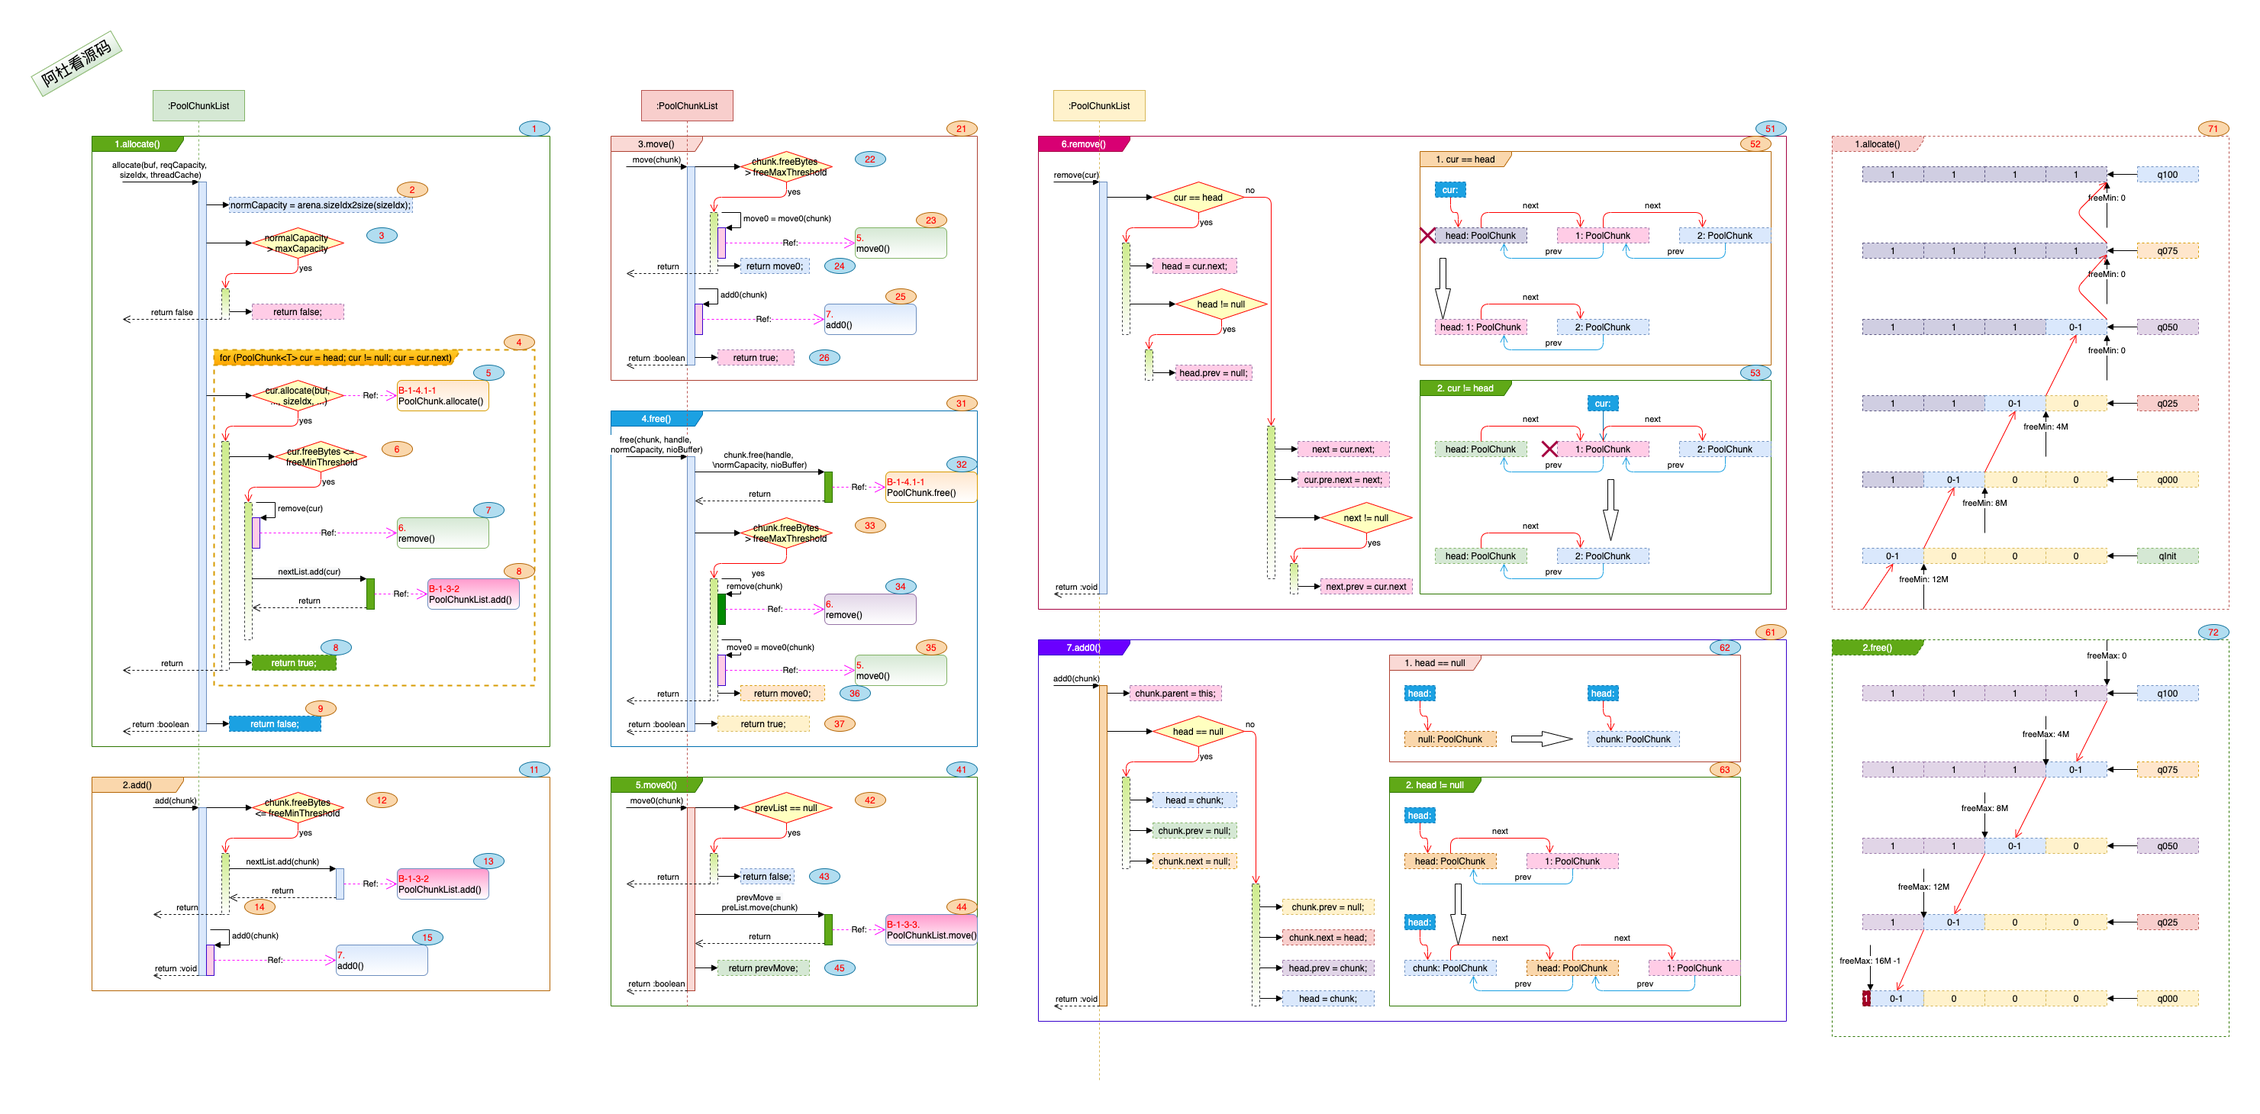
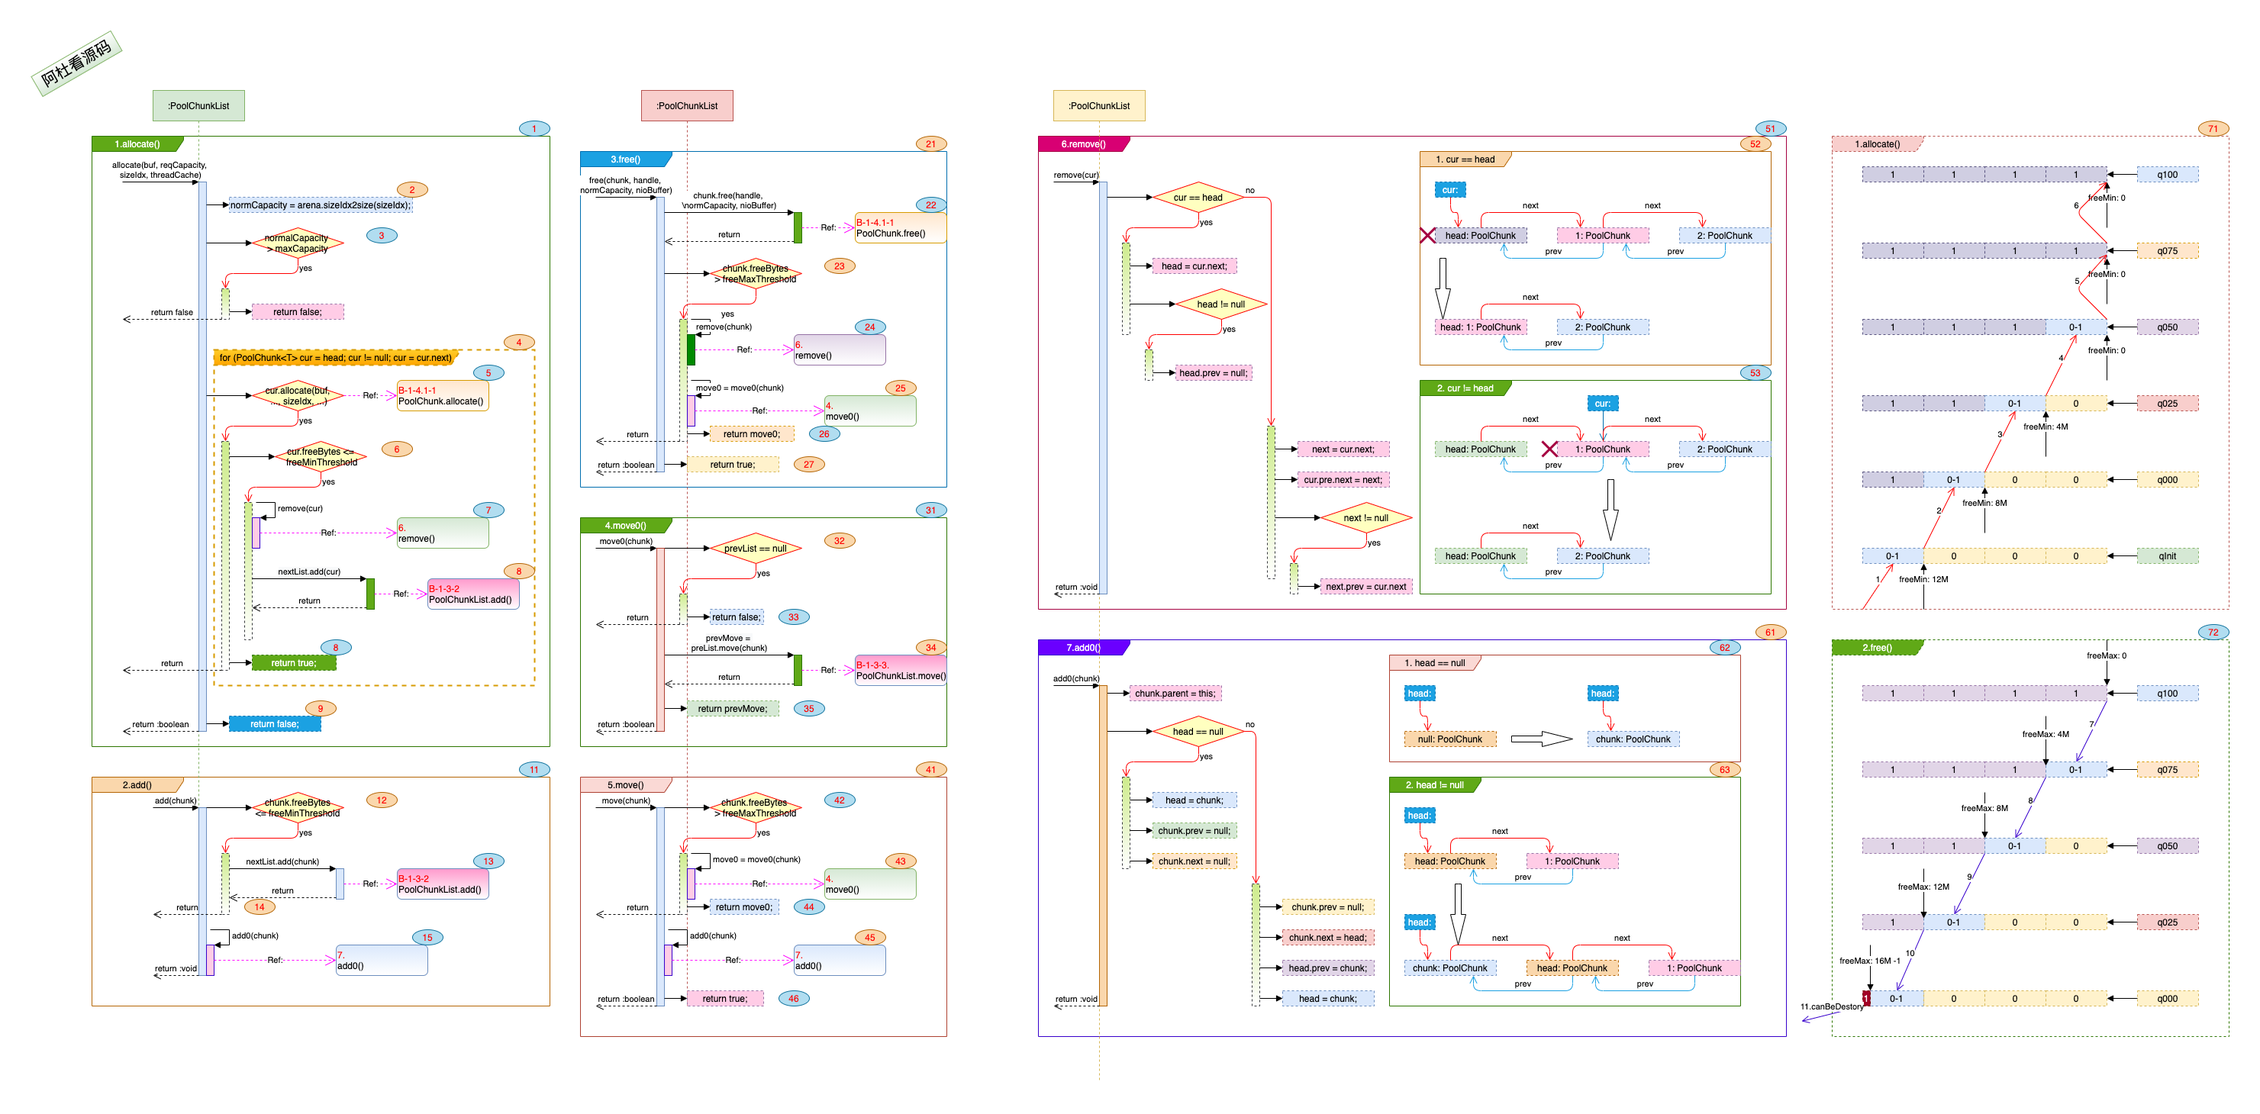
1. PoolChunkList大体完工.

Changed region(s): [[0.2486, 0.0925, 0.435, 0.9247], [0.4039, 0.6781, 0.435, 0.7089]]

diff --git a/netty_4.1.63/4.PoolChunkList.html b/netty_4.1.63/4.PoolChunkList.html
@@ -633,6 +633,6 @@ img {
 </style><title>4.PoolChunkList</title>
 </head>
 <body class='typora-export'><div class='typora-export-content'>
-<div id='write'  class=''><h2 id='nettypooledbytebuf4poolchunklist'><span>Netty_PooledByteBuf_4.PoolChunkList</span></h2><h3 id='一-干什么'><span>一. 干什么?</span></h3><ol start='' ><li><span>按楼层下的空置率来进行分级管理, 大远看去一幢楼, 最空旷的楼层在最下面, 最拥挤的楼层在最上面.  </span></li><li><span>楼层所属的分级是变化的, 空置率变化后, 会在不同的分级间游走. 没血了就回家, 有血了就往上冲.</span></li></ol><p>&nbsp;</p><h3 id='二-打算怎么干'><span>二. 打算怎么干? </span></h3><ol start='' ><li><p><span>通过定义不同的空置率级别(min, max), 将整个楼分成不同的级别, 第个级别(PoolChunkList)下的空置率都在(min, max)范围内.</span></p></li><li><p><span>随着楼层中空间的分配与回收, 空置率发生变化, 判断是否在不同级别(PoolChunkList)间是升还是降.</span></p><p>&nbsp;</p></li></ol><h3 id='三-具体实现'><span>三. 具体实现:</span></h3><ol start='' ><li><h4 id='先看下初始化方法与数据结构'><span>先看下初始化方法与数据结构:</span></h4><blockquote><p><img src="/Users/dm/Documents/finup_codes/github/Reading-Netty-SourceCode/netty_4.1.63/images/3.PooledByteBufAllocator/2.DataStructure-5.PoolChunkList.png" referrerpolicy="no-referrer" alt="PoolChunkList初始化及数据结构"></p><ul><li><span>图中标号: </span><strong><span>1</span></strong><span>. 属于那幢楼(arena).</span></li><li><span>图中标号: </span><strong><span>2</span></strong><span>. 最高的那一级(nextList)是什么?</span></li><li><span>图中标号: </span><strong><span>1</span></strong><span>. </span></li><li><span>图中标号: </span><strong><span>1</span></strong><span>. </span></li><li><span>图中标号: </span><strong><span>1</span></strong><span>. </span></li><li><span>图中标号: </span><strong><span>1</span></strong><span>. </span></li><li><span>图中标号: </span><strong><span>1</span></strong><span>. </span></li><li><span>图中标号: </span><strong><span>1</span></strong><span>. </span></li><li><span>图中标号: </span><strong><span>1</span></strong><span>. </span></li><li><span>图中标号: </span><strong><span>1</span></strong><span>. </span></li></ul></blockquote><p>&nbsp;</p></li></ol></div></div>
+<div id='write'  class=''><h2 id='nettypooledbytebuf4poolchunklist'><span>Netty_PooledByteBuf_4.PoolChunkList</span></h2><h3 id='一-干什么'><span>一. 干什么?</span></h3><ol start='' ><li><span>按楼层下的空置率来进行分级管理, 大远看去一幢楼, 最空旷的楼层在最下面, 最拥挤的楼层在最上面.  </span></li><li><span>楼层所属的分级是变化的, 空置率变化后, 会在不同的分级间游走. 没血了就回家, 有血了就往上冲.</span></li></ol><p>&nbsp;</p><h3 id='二-打算怎么干'><span>二. 打算怎么干? </span></h3><ol start='' ><li><p><span>通过定义不同的空置率级别(min, max), 将整个楼分成不同的级别, 第个级别(PoolChunkList)下的空置率都在(min, max)范围内.</span></p></li><li><p><span>随着楼层中空间的分配与回收, 空置率发生变化, 判断是否在不同级别(PoolChunkList)间是升还是降.</span></p><p>&nbsp;</p></li></ol><h3 id='三-具体实现'><span>三. 具体实现:</span></h3><ol start='' ><li><h4 id='先看下初始化方法与数据结构'><span>先看下初始化方法与数据结构:</span></h4><blockquote><p><img src="./images/3.PooledByteBufAllocator/2.DataStructure-5.PoolChunkList.png" referrerpolicy="no-referrer" alt="PoolChunkList初始化及数据结构"></p><ul><li><p><span>图中标号: </span><strong><span>1</span></strong><span>. 属于那幢楼(arena).</span></p></li><li><p><span>图中标号: </span><strong><span>2</span></strong><span>. 最高的那一级(nextList)是什么?</span></p></li><li><p><span>图中标号: </span><strong><span>3, 4</span></strong><span>. 闲置率的边界的百分比(minUsage, maxUsage). </span></p></li><li><p><span>图中标号: </span><strong><span>5</span></strong><span>. 该分级下最大能满足的空间分配是多少(maxCapacity). 闲置率边界是用来进行分级管理的, maxCapacity表示的是可分配空间, 有可能分配完了, 会进行跳级.</span></p></li><li><p><span>图中标号: </span><strong><span>6, 7</span></strong><span>. 计算闲置的边界字节数.</span></p></li><li><p><span>图中标号: </span><strong><span>11</span></strong><span>. 一幢楼的分级管理(PoolArena), 从qInit到q100分了6级来管理. 1-5表示随着分配, 楼层的空置率的变化及在不同的分级(PoolChunkList)内上升, 6-9表示随着空间的释放, 空置率越来越高, 在不同的分级中的下降. </span></p><p><strong><span>这里要注意:</span></strong><span> 10.free, 因为q000的prev是空的, 所以如果楼层如果空置超过q000的freeMaxThreshold, 16777215----15.9M, 也就是16M空间都是空置时, 该楼层不会下降到qInit, 而是直接从管理分级中移除了. </span></p><figure><table><thead><tr><th style='text-align:center;' ><span>分级</span></th><th style='text-align:center;' ><span>minUsage</span></th><th style='text-align:center;' ><span>maxUsage</span></th><th style='text-align:center;' ><span>freeMinThreshold</span></th><th style='text-align:center;' ><span>freeMaxThreshold</span></th><th style='text-align:center;' ><span>maxCapacity</span></th></tr></thead><tbody><tr><td style='text-align:center;' ><span>qInit</span></td><td style='text-align:center;' ><span>-2147483648</span></td><td style='text-align:center;' ><span>25</span></td><td style='text-align:center;' ><span>12750684----12.1M</span></td><td style='text-align:center;' ><span>2147483647----2048M</span></td><td style='text-align:center;' ><span>16609443----15.8M</span></td></tr><tr><td style='text-align:center;' ><span>q000</span></td><td style='text-align:center;' ><span>1</span></td><td style='text-align:center;' ><span>50</span></td><td style='text-align:center;' ><span>8556380----8.15M</span></td><td style='text-align:center;' ><span>16777215----15.9M</span></td><td style='text-align:center;' ><span>16609443----15.8M</span></td></tr><tr><td style='text-align:center;' ><span>q025</span></td><td style='text-align:center;' ><span>25</span></td><td style='text-align:center;' ><span>75</span></td><td style='text-align:center;' ><span>4362076----4.15M</span></td><td style='text-align:center;' ><span>12750684----12.1M</span></td><td style='text-align:center;' ><span>12582912----12M</span></td></tr><tr><td style='text-align:center;' ><span>q050</span></td><td style='text-align:center;' ><span>50</span></td><td style='text-align:center;' ><span>100</span></td><td style='text-align:center;' ><span>0</span></td><td style='text-align:center;' ><span>8556380----8.15M</span></td><td style='text-align:center;' ><span>8388608----8M</span></td></tr><tr><td style='text-align:center;' ><span>q075</span></td><td style='text-align:center;' ><span>75</span></td><td style='text-align:center;' ><span>100</span></td><td style='text-align:center;' ><span>0</span></td><td style='text-align:center;' ><span>4362076----4.15M</span></td><td style='text-align:center;' ><span>4194304----4M</span></td></tr><tr><td style='text-align:center;' ><span>q100</span></td><td style='text-align:center;' ><span>100</span></td><td style='text-align:center;' ><span>2147483647</span></td><td style='text-align:center;' ><span>-2147483648----2048M</span></td><td style='text-align:center;' ><span>0</span></td><td style='text-align:center;' ><span>0</span></td></tr></tbody></table></figure></li></ul></blockquote></li><li><h4 id='空间的分配与释放'><span>空间的分配与释放:</span></h4><blockquote><p><span>上图: </span><img src="./images/3.PooledByteBufAllocator/1.MainFlow-3.PoolChunkList.png" referrerpolicy="no-referrer" alt="PoolChunkList allocate&amp;free"></p><ol><li><p><span>图中标号: </span><strong><span>1</span></strong><span>, allocate(): 从该ChunkList下的楼层分配空间, 该List下的楼层空置率都在一个范围内, 以链表的结构连接在一起.</span></p><ul><li><p><span>图中标号: </span><strong><span>2</span></strong><span>, 根据sizeIdx取空间需求的标准化值.</span></p></li><li><p><span>图中标号: </span><strong><span>3</span></strong><span>, 如果要申请的空间大于该PoolChunkList的最大可分配空间, 那么直接返回分配不了.</span></p></li><li><p><span>图中标号: </span><strong><span>4</span></strong><span>, 扫楼操作: 遍历该List下的所有楼层, 有楼层能分配就直接退出遍历, 返回结果(图中标号: </span><strong><span>8</span></strong><span> ). 如果所有的楼层都不能满足空间需求, 返回分配失败(图中标号: </span><strong><span>9</span></strong><span>).</span></p></li><li><p><span>图中标号: </span><strong><span>5</span></strong><span>, 特定楼层(PoolChunk)进行空间分配. 如果分配成功, 检测下该楼层(cur: PoolChunk)还有多少闲置空间(freeBytes), 如果闲置空间少于该分级下的空间率下限(freeMinThreshold), 先把该楼层从本身的列表中移走(图中标号: </span><strong><span>7</span></strong><span>), 再把该楼层转给下一级PoolChunkList(nextList.add(cur), 图中标号: </span><strong><span>8</span></strong><span>. </span></p><p>&nbsp;</p></li></ul></li><li><p><span>图中标号: </span><strong><span>11</span></strong><span>, add(): 尝试将楼层加入到当前有PoolChunkList中.</span></p><ul><li><p><span>图中标号: </span><strong><span>12</span></strong><span>, 如果要加入的楼层的空置空间(chunk.freeBytes)小于最小边界(freeMinThreshold), 则往空置率更小的分级推(图中标号: </span><strong><span>13</span></strong><span>), 然后直接返回(图中标号: </span><strong><span>14</span></strong><span>).</span></p></li><li><p><span>图中标号: </span><strong><span>15</span></strong><span>, 如果空置率在范围内, 则将楼层加入到该PoolChunkList管理的楼层列表中(图中标号: </span><strong><span>15</span></strong><span>).</span></p><p>&nbsp;</p></li></ul></li><li><p><span>图中标号: </span><strong><span>21</span></strong><span>, free(): 该分级下的楼层进行空间回收, 这里所做的空间回收只是对空间是否使用进行标记, 标记的更改肯定会被执行, free()返回false时, 表示该楼层可以被destroy, 楼层对应的内存可以销毁.</span></p><ul><li><span>图中标号: </span><strong><span>22</span></strong><span>, 先对楼层进行空间释放, 如果释放完空间后, 闲置的空间大于该分级下的最大值上限(freeMaxThreshold)(图中标号: </span><strong><span>23</span></strong><span>), 说明该楼层有更大的富余空间, 应该将该楼层进行下移(相对于结构图来说), 那么先将该楼层从该分级(PoolChunkList)的列表中移除(图中标号: </span><strong><span>24</span></strong><span>), 再将该楼层进行下移(图中标号: </span><strong><span>25</span></strong><span>, move0()), 返回是否下移成功了(图中标号: </span><strong><span>26</span></strong><span>), 如果下移不成功, 表明没人要这个楼层了, 这个楼层是全空的, 那这个楼层可以销毁了.</span></li><li><span>图中标号: </span><strong><span>27</span></strong><span>, 如果楼层释放资源成功了, 也不用对楼层进行下移操作, 则返回true.</span></li></ul></li><li><p><span>图中标号: </span><strong><span>1</span></strong></p></li><li><p><span>图中标号: </span><strong><span>1</span></strong></p></li><li><p><span>图中标号: </span><strong><span>1</span></strong></p></li><li><p><span>图中标号: </span><strong><span>1</span></strong></p></li><li><p><span>图中标号: </span><strong><span>1</span></strong></p></li><li><p>&nbsp;</p></li></ol></blockquote></li></ol></div></div>
 </body>
 </html>

diff --git a/netty_4.1.63/4.PoolChunkList.md b/netty_4.1.63/4.PoolChunkList.md
@@ -20,7 +20,7 @@
 
 1. #### 先看下初始化方法与数据结构:
 
-   > ![PoolChunkList初始化及数据结构](/Users/dm/Documents/finup_codes/github/Reading-Netty-SourceCode/netty_4.1.63/images/3.PooledByteBufAllocator/2.DataStructure-5.PoolChunkList.png)
+   > ![PoolChunkList初始化及数据结构](./images/3.PooledByteBufAllocator/2.DataStructure-5.PoolChunkList.png)
    >
    > - 图中标号: **1**. 属于那幢楼(arena).
    >
@@ -45,4 +45,77 @@
    >   | q075  |     75      |    100     |          0           |  4362076----4.15M   |   4194304----4M   |
    >   | q100  |     100     | 2147483647 | -2147483648----2048M |          0          |         0         |
    
-2. 
+2. #### 空间的分配与释放:
+
+   > 上图: ![PoolChunkList allocate&free](./images/3.PooledByteBufAllocator/1.MainFlow-3.PoolChunkList.png)
+   >
+   > 1. 图中标号: **1**, allocate(): 从该ChunkList下的楼层分配空间, 该List下的楼层空置率都在一个范围内, 以链表的结构连接在一起.
+   >
+   >    - 图中标号: **2**, 根据sizeIdx取空间需求的标准化值.
+   >
+   >    - 图中标号: **3**, 如果要申请的空间大于该PoolChunkList的最大可分配空间, 那么直接返回分配不了.
+   >
+   >    - 图中标号: **4**, 扫楼操作: 遍历该List下的所有楼层, 有楼层能分配就直接退出遍历, 返回结果(图中标号: **8** ). 如果所有的楼层都不能满足空间需求, 返回分配失败(图中标号: **9**).
+   >
+   >    - 图中标号: **5**, 特定楼层(PoolChunk)进行空间分配. 如果分配成功, 检测下该楼层(cur: PoolChunk)还有多少闲置空间(freeBytes), 如果闲置空间少于该分级下的空间率下限(freeMinThreshold), 先把该楼层从本身的列表中移走(图中标号: **7**), 再把该楼层转给下一级PoolChunkList(nextList.add(cur), 图中标号: **8**. 
+   >
+   >      
+   >
+   > 2. 图中标号: **11**, add(): 尝试将楼层加入到当前有PoolChunkList中.
+   >
+   >    - 图中标号: **12**, 如果要加入的楼层的空置空间(chunk.freeBytes)小于最小边界(freeMinThreshold), 则往空置率更小的分级推(图中标号: **13**), 然后直接返回(图中标号: **14**).
+   >
+   >    - 图中标号: **15**, 如果空置率在范围内, 则将楼层加入到该PoolChunkList管理的楼层列表中(图中标号: **15**).
+   >
+   >      
+   >
+   > 3. 图中标号: **21**, free(): 该分级下的楼层进行空间回收, 这里所做的空间回收只是对空间是否使用进行标记, 标记的更改肯定会被执行, free()返回false时, 表示该楼层可以被destroy, 楼层对应的内存可以销毁.
+   >
+   >    - 图中标号: **22**, 先对楼层进行空间释放, 如果释放完空间后, 闲置的空间大于该分级下的最大值上限(freeMaxThreshold)(图中标号: **23**), 说明该楼层有更大的富余空间, 应该将该楼层进行下移(相对于结构图来说), 那么先将该楼层从该分级(PoolChunkList)的列表中移除(图中标号: **24**), 再将该楼层进行下移(图中标号: **25**, move0()), 返回是否下移成功了(图中标号: **26**), 如果下移不成功, 表明没人要这个楼层了, 这个楼层是全空的, 那这个楼层可以销毁了.
+   >
+   >    - 图中标号: **27**, 如果楼层释放资源成功了, 也不用对楼层进行下移操作, 则返回true.
+   >
+   >      
+   >
+   > 4. 图中标号: **31**, move0(): 因为楼层的闲置空间多了, 向下移动楼层. 
+   >
+   >    - 图中标号: **32**, 如果该分级的向下分级(prevList)没有了, 那说明这个楼层不能向下移动了, 没人要了, 返回false(图中标号: **33**).
+   >
+   >    - 图中标号: **34**, 将楼层向下移动, 并返回是否移动成功(图中标号: **35**). 
+   >
+   >      
+   >
+   > 5. 图中标号: **41**, move(): 该分级下接收到一个楼层的下移申请, 看能不能接纳它.
+   >
+   >    - 图中标号: **42**, 先核对一下申请楼层的闲置空间是不是在自己的可控范围内(freeMaxThreshold), 如果不在自己范围内, 尝试对楼层进行下移(图中标号: **43**), 并返回下移的结果.
+   >
+   >    - 图中标号: **45**, 如果在自己的分级管理范围内, 将楼层加入到管理列表(图中标号: **45**), 返回成功(图中标号: **46**).
+   >
+   >      
+   >
+   > 6. 图中标号: **51**, remove(): 将楼层从自己的管理列表中移除.
+   >
+   >    - 图中标号: **52**, 如果该楼层是head的情况下.
+   >
+   >    - 图中标号: **53**, 如果该楼层不是head的情况下.
+   >
+   >      
+   >
+   > 7. 图中标号: **61**, add0(): 将楼层加入到自己的管理列表中.
+   >
+   >    - 图中标号: **62**, 如果该楼层head是空的情况下.
+   >
+   >    - 图中标号: **63**, 如果该楼层head不为空的情况下.
+   >
+   >      
+   >
+   > 8. 图中标号: **71**, 随着特定楼层下空间的分配, 该楼层的使用率不断增长, 随着使用率的增长, 该楼层在不同的PoolChunkList分级下从qInit -> q100的过程.
+   >
+   > 9. 图中标号: **81**, 随着特定楼层下空间的释放, 该楼层的使用率不断降低, 随着使用率的减少, 该楼层在不同的PoolChunkList分级下从q100 -> q000, 的过程, 直至从q000再被踢出来接下来要销毁的过程.
+
+
+
+### 四. 写在最后:
+
+1. PoolChunkList管理的楼层列表, 虽然空置率在相应的范围内, 但是每个楼的碎片化不同, 随着时间推移, 空间的分配与回收下, 会有不同程度的碎片, 也就是说即使总的闲置空间能满足需求, 但是却没有连续的空间能真正分配.
+2. PoolChunkList的列表管理是非线程安全的.如果在qInit, q000, 等这一级按qInit这些对象进行加锁, 如果管理列表下的楼层很多, 性能是不是会受影响.

diff --git a/netty_4.1.63/3.PoolChunk.md b/netty_4.1.63/3.PoolChunk.md
@@ -343,6 +343,6 @@
 
     
 
-### 四. 总结:
+### 四. 写在最后:
 
 1. PoolChunk只是通过元数据的管理信息来记录那些空间是占用还是闲置, 不会进行物理空间的回收操作.
